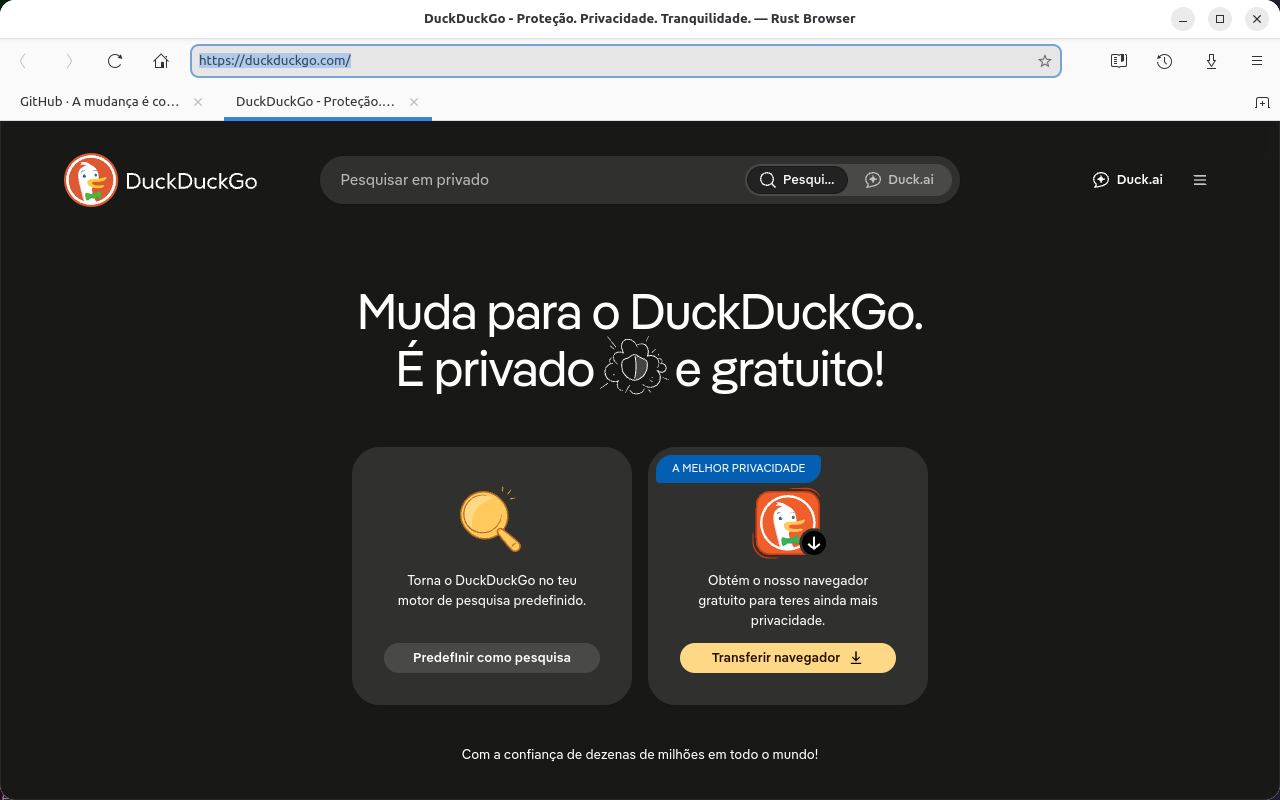
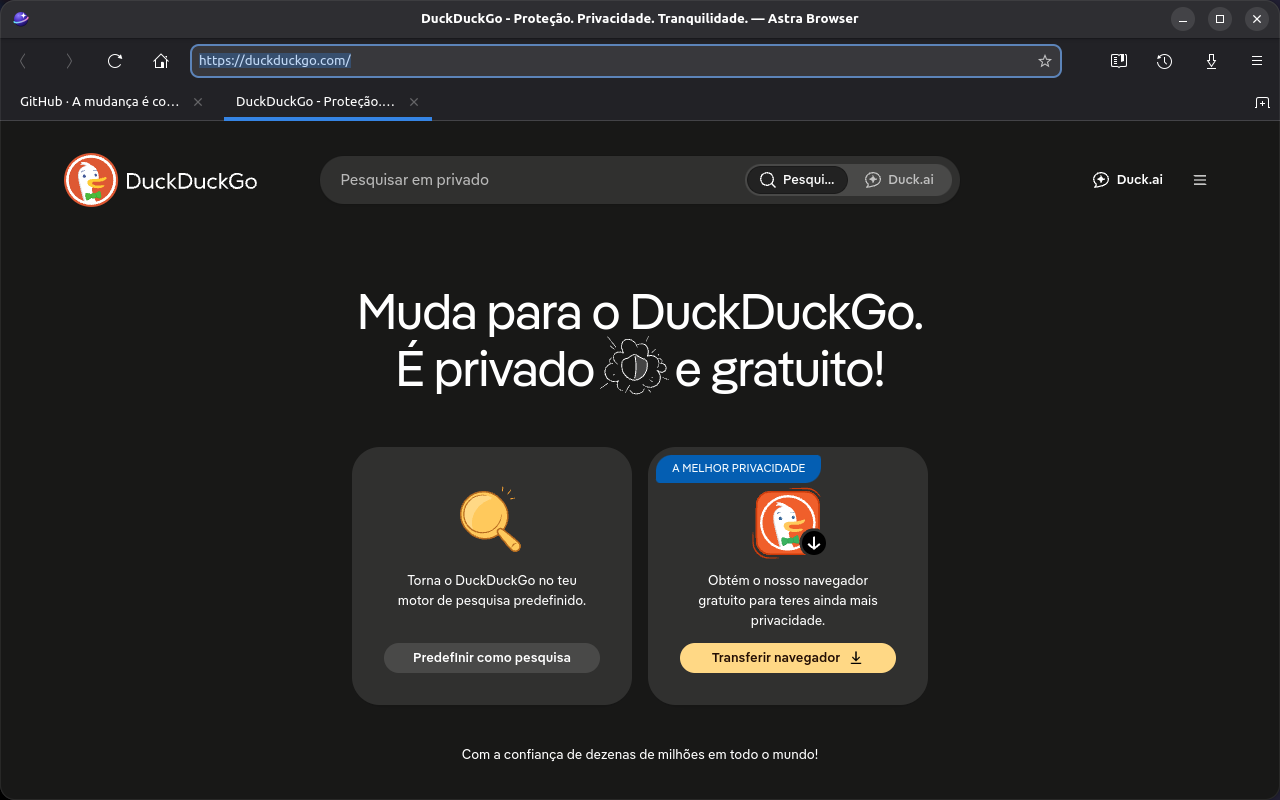
feat: identidade Astra Browser e ícone responsivo
- Nome oficial Astra Browser: pacote e binário astra-browser, app ID
  io.github.aleksanderpalamar.AstraBrowser e dados em astra-browser
- Ícone em três desenhos: completo (48 px ou mais), simplificado para
  16-32 px e simbólico monocromático recolorido pelo tema
- PNGs de 16 a 512 px no tema hicolor gerados por scripts/render-icons.sh
- Atalho .desktop e scripts de instalação/remoção em ~/.local
- Ícone padrão das janelas definido pelo app ID

Changed region(s): [[0.0, 0.0, 1.0, 0.1562]]

diff --git a/src/ui/title.rs b/src/ui/title.rs
@@ -1,6 +1,6 @@
 use crate::browser::mode::BrowsingMode;
 
-pub const APP_NAME: &str = "Rust Browser";
+pub const APP_NAME: &str = "Astra Browser";
 pub const NEW_TAB_TITLE: &str = "Nova aba";
 const PRIVATE_SUFFIX: &str = " (navegação privada)";
 
@@ -34,7 +34,7 @@ mod tests {
     fn appends_app_name_to_page_title() {
         assert_eq!(
             window_title(Some("GitHub · Build and ship software"), Normal),
-            "GitHub · Build and ship software — Rust Browser"
+            "GitHub · Build and ship software — Astra Browser"
         );
     }
 
@@ -49,7 +49,7 @@ mod tests {
     fn trims_page_title() {
         assert_eq!(
             window_title(Some("  DuckDuckGo \n"), Normal),
-            "DuckDuckGo — Rust Browser"
+            "DuckDuckGo — Astra Browser"
         );
     }
 
@@ -57,11 +57,11 @@ mod tests {
     fn private_windows_are_labeled() {
         assert_eq!(
             window_title(Some("GitHub"), Private),
-            "GitHub — Rust Browser (navegação privada)"
+            "GitHub — Astra Browser (navegação privada)"
         );
         assert_eq!(
             window_title(None, Private),
-            "Rust Browser (navegação privada)"
+            "Astra Browser (navegação privada)"
         );
     }
 

diff --git a/src/library/files.rs b/src/library/files.rs
@@ -4,7 +4,7 @@ use std::path::{Path, PathBuf};
 
 use gtk::glib;
 
-const APP_DIRECTORY: &str = "rust-browser";
+const APP_DIRECTORY: &str = "astra-browser";
 
 pub fn data_path(file_name: &str) -> PathBuf {
     glib::user_data_dir().join(APP_DIRECTORY).join(file_name)
@@ -45,7 +45,7 @@ mod tests {
     use super::{append_line, read_or_empty, write_atomically};
 
     fn scratch_dir(name: &str) -> PathBuf {
-        let dir = std::env::temp_dir().join(format!("rust-browser-{}-{name}", std::process::id()));
+        let dir = std::env::temp_dir().join(format!("astra-browser-{}-{name}", std::process::id()));
         let _ = fs::remove_dir_all(&dir);
         dir
     }

diff --git a/src/app.rs b/src/app.rs
@@ -6,7 +6,7 @@ use crate::library::Library;
 use crate::ui::actions::{self, AppAction, BrowserAction, LibraryAction, register_accels};
 use crate::ui::window;
 
-const APP_ID: &str = "io.github.aleksanderpalamar.RustBrowser";
+const APP_ID: &str = "io.github.aleksanderpalamar.AstraBrowser";
 
 pub fn run() -> glib::ExitCode {
     let app = Application::builder().application_id(APP_ID).build();
@@ -15,6 +15,7 @@ pub fn run() -> glib::ExitCode {
         #[strong]
         library,
         move |app| {
+            gtk::Window::set_default_icon_name(APP_ID);
             install_app_actions(app, &library);
             register_accelerators(app);
         }

diff --git a/src/browser/media_support.rs b/src/browser/media_support.rs
@@ -6,7 +6,7 @@ use webkit6::{LoadEvent, WebView};
 
 use crate::browser::media_formats::{ESSENTIAL_FORMATS, unsupported_formats_warning};
 
-const ISOLATED_WORLD: &str = "rust-browser-media-support";
+const ISOLATED_WORLD: &str = "astra-browser-media-support";
 const PROBE_SCRIPT: &str =
     "return mimeTypes.split('\\n').filter(type => !MediaSource.isTypeSupported(type)).join('\\n');";
 

diff --git a/README.md b/README.md
@@ -1,11 +1,15 @@
-# Rust Browser
+<p align="center">
+  <img src="data/icons/src/astra.svg" width="128" alt="Ícone do Astra Browser">
+</p>
+
+# Astra Browser
 
 Navegador web desktop minimalista escrito em Rust, com interface nativa **GTK4** e
 renderização feita pelo **WebKitGTK 6.0**. Toda a aplicação ao redor da engine
 (janela, toolbar, barra de endereço, navegação, atalhos e sincronização de estado)
 é implementada em Rust — sem Electron, Tauri ou frontend web.
 
-![Rust Browser exibindo a página inicial do DuckDuckGo](docs/screenshot.png)
+![Astra Browser exibindo a página inicial do DuckDuckGo](docs/screenshot.png)
 
 ## Funcionalidades
 
@@ -17,7 +21,7 @@ renderização feita pelo **WebKitGTK 6.0**. Toda a aplicação ao redor da engi
   - texto comum vira pesquisa: `Rust ownership` → `https://duckduckgo.com/?q=Rust%20ownership`
 - Botões Voltar/Avançar habilitados somente quando existe histórico.
 - Barra de endereço e título da janela sincronizados com a página
-  (`Título da página — Rust Browser`).
+  (`Título da página — Astra Browser`).
 - Abas: nova aba (botão `+` ou `Ctrl+T`), fechar pelo `✕` da aba ou `Ctrl+W`,
   alternar com `Ctrl+Tab`/`Ctrl+Shift+Tab` e reordenar arrastando. A toolbar e o
   título da janela acompanham a aba ativa; fechar a última aba fecha a janela.
@@ -81,6 +85,35 @@ cargo build --release  # otimizado
 cargo run
 ```
 
+## Instalação no sistema (atalho e ícone)
+
+```bash
+./scripts/install.sh      # compila em release e instala em ~/.local
+./scripts/uninstall.sh    # remove o que foi instalado
+```
+
+O script instala o binário em `~/.local/bin/astra-browser`, o atalho
+`io.github.aleksanderpalamar.AstraBrowser.desktop` e os ícones no tema
+`hicolor` do usuário. Use `PREFIX=/outro/caminho` para mudar o destino. No
+GNOME/Wayland o dock e o Alt+Tab encontram o ícone pelo *app ID*
+(`io.github.aleksanderpalamar.AstraBrowser`), inclusive ao rodar com
+`cargo run` depois da instalação.
+
+## Identidade visual
+
+O ícone representa o nome (*astra*, “estrelas”): um planeta de espaço profundo,
+um anel orbital que lembra o globo de um navegador e uma estrela de quatro
+pontas. Ele é responsivo — cada faixa de tamanho usa o desenho adequado:
+
+| Arquivo (`data/icons/src/`) | Uso                                                        |
+| --------------------------- | ---------------------------------------------------------- |
+| `astra.svg`                 | 48 px ou mais (dock, grade de apps) e SVG escalável        |
+| `astra-small.svg`           | 16–32 px (barra de título, barra de tarefas, bandejas): sem detalhes finos, anel e estrela mais grossos |
+| `astra-symbolic.svg`        | ícone simbólico monocromático, recolorido pelo tema (painéis, bandejas, alto contraste) |
+
+Os PNGs de `data/icons/hicolor/` são gerados a partir dos SVGs com
+`./scripts/render-icons.sh` (requer `rsvg-convert`, do pacote `librsvg`).
+
 ## Testes e verificação
 
 ```bash
@@ -118,9 +151,17 @@ Os atalhos são registrados como *accelerators* do `GtkApplication`
 ## Arquitetura
 
 ```text
+data/
+├── icons/src/           SVGs do ícone (completo, pequeno e simbólico)
+├── icons/hicolor/       PNGs gerados por tamanho (16 a 512 px)
+└── io.github.aleksanderpalamar.AstraBrowser.desktop
+scripts/
+├── install.sh           instala binário, atalho e ícones em ~/.local
+├── uninstall.sh         remove a instalação
+└── render-icons.sh      gera os PNGs a partir dos SVGs
 src/
 ├── main.rs              ponto de entrada
-├── app.rs               ciclo de vida do GtkApplication, ação quit e atalhos
+├── app.rs               ciclo de vida do GtkApplication, ações, atalhos e ícone
 ├── library/
 │   ├── bookmarks.rs     favoritos: regras (adicionar, remover, formato do arquivo)
 │   ├── bookmark_store.rs favoritos persistidos em disco
@@ -191,8 +232,8 @@ src/
   são determinísticos e têm testes unitários.
 
 Cookies, cache e armazenamento de sites ficam na sessão padrão do WebKit, em
-`~/.local/share/rust-browser` e `~/.cache/rust-browser`. Os favoritos ficam em
-`~/.local/share/rust-browser/bookmarks.tsv` (uma linha por favorito:
+`~/.local/share/astra-browser` e `~/.cache/astra-browser`. Os favoritos ficam em
+`~/.local/share/astra-browser/bookmarks.tsv` (uma linha por favorito:
 endereço e título separados por tab) e o histórico em `history.tsv` no mesmo
 diretório (data, endereço e título), limitado às 5 000 visitas mais recentes.
 
@@ -208,6 +249,8 @@ diretório (data, endereço e título), limitado às 5 000 visitas mais recentes
 
 - Sem bloqueador de anúncios, extensões ou sincronização (fora do escopo desta
   versão).
+- Ainda não pode ser definido como navegador padrão: o atalho não declara tipos
+  MIME porque o app não abre URLs recebidas pela linha de comando.
 - Cada janela privada tem a própria sessão efêmera; janelas privadas não
   compartilham cookies entre si.
 - Arquivos baixados em janelas privadas ficam na pasta de Downloads.
